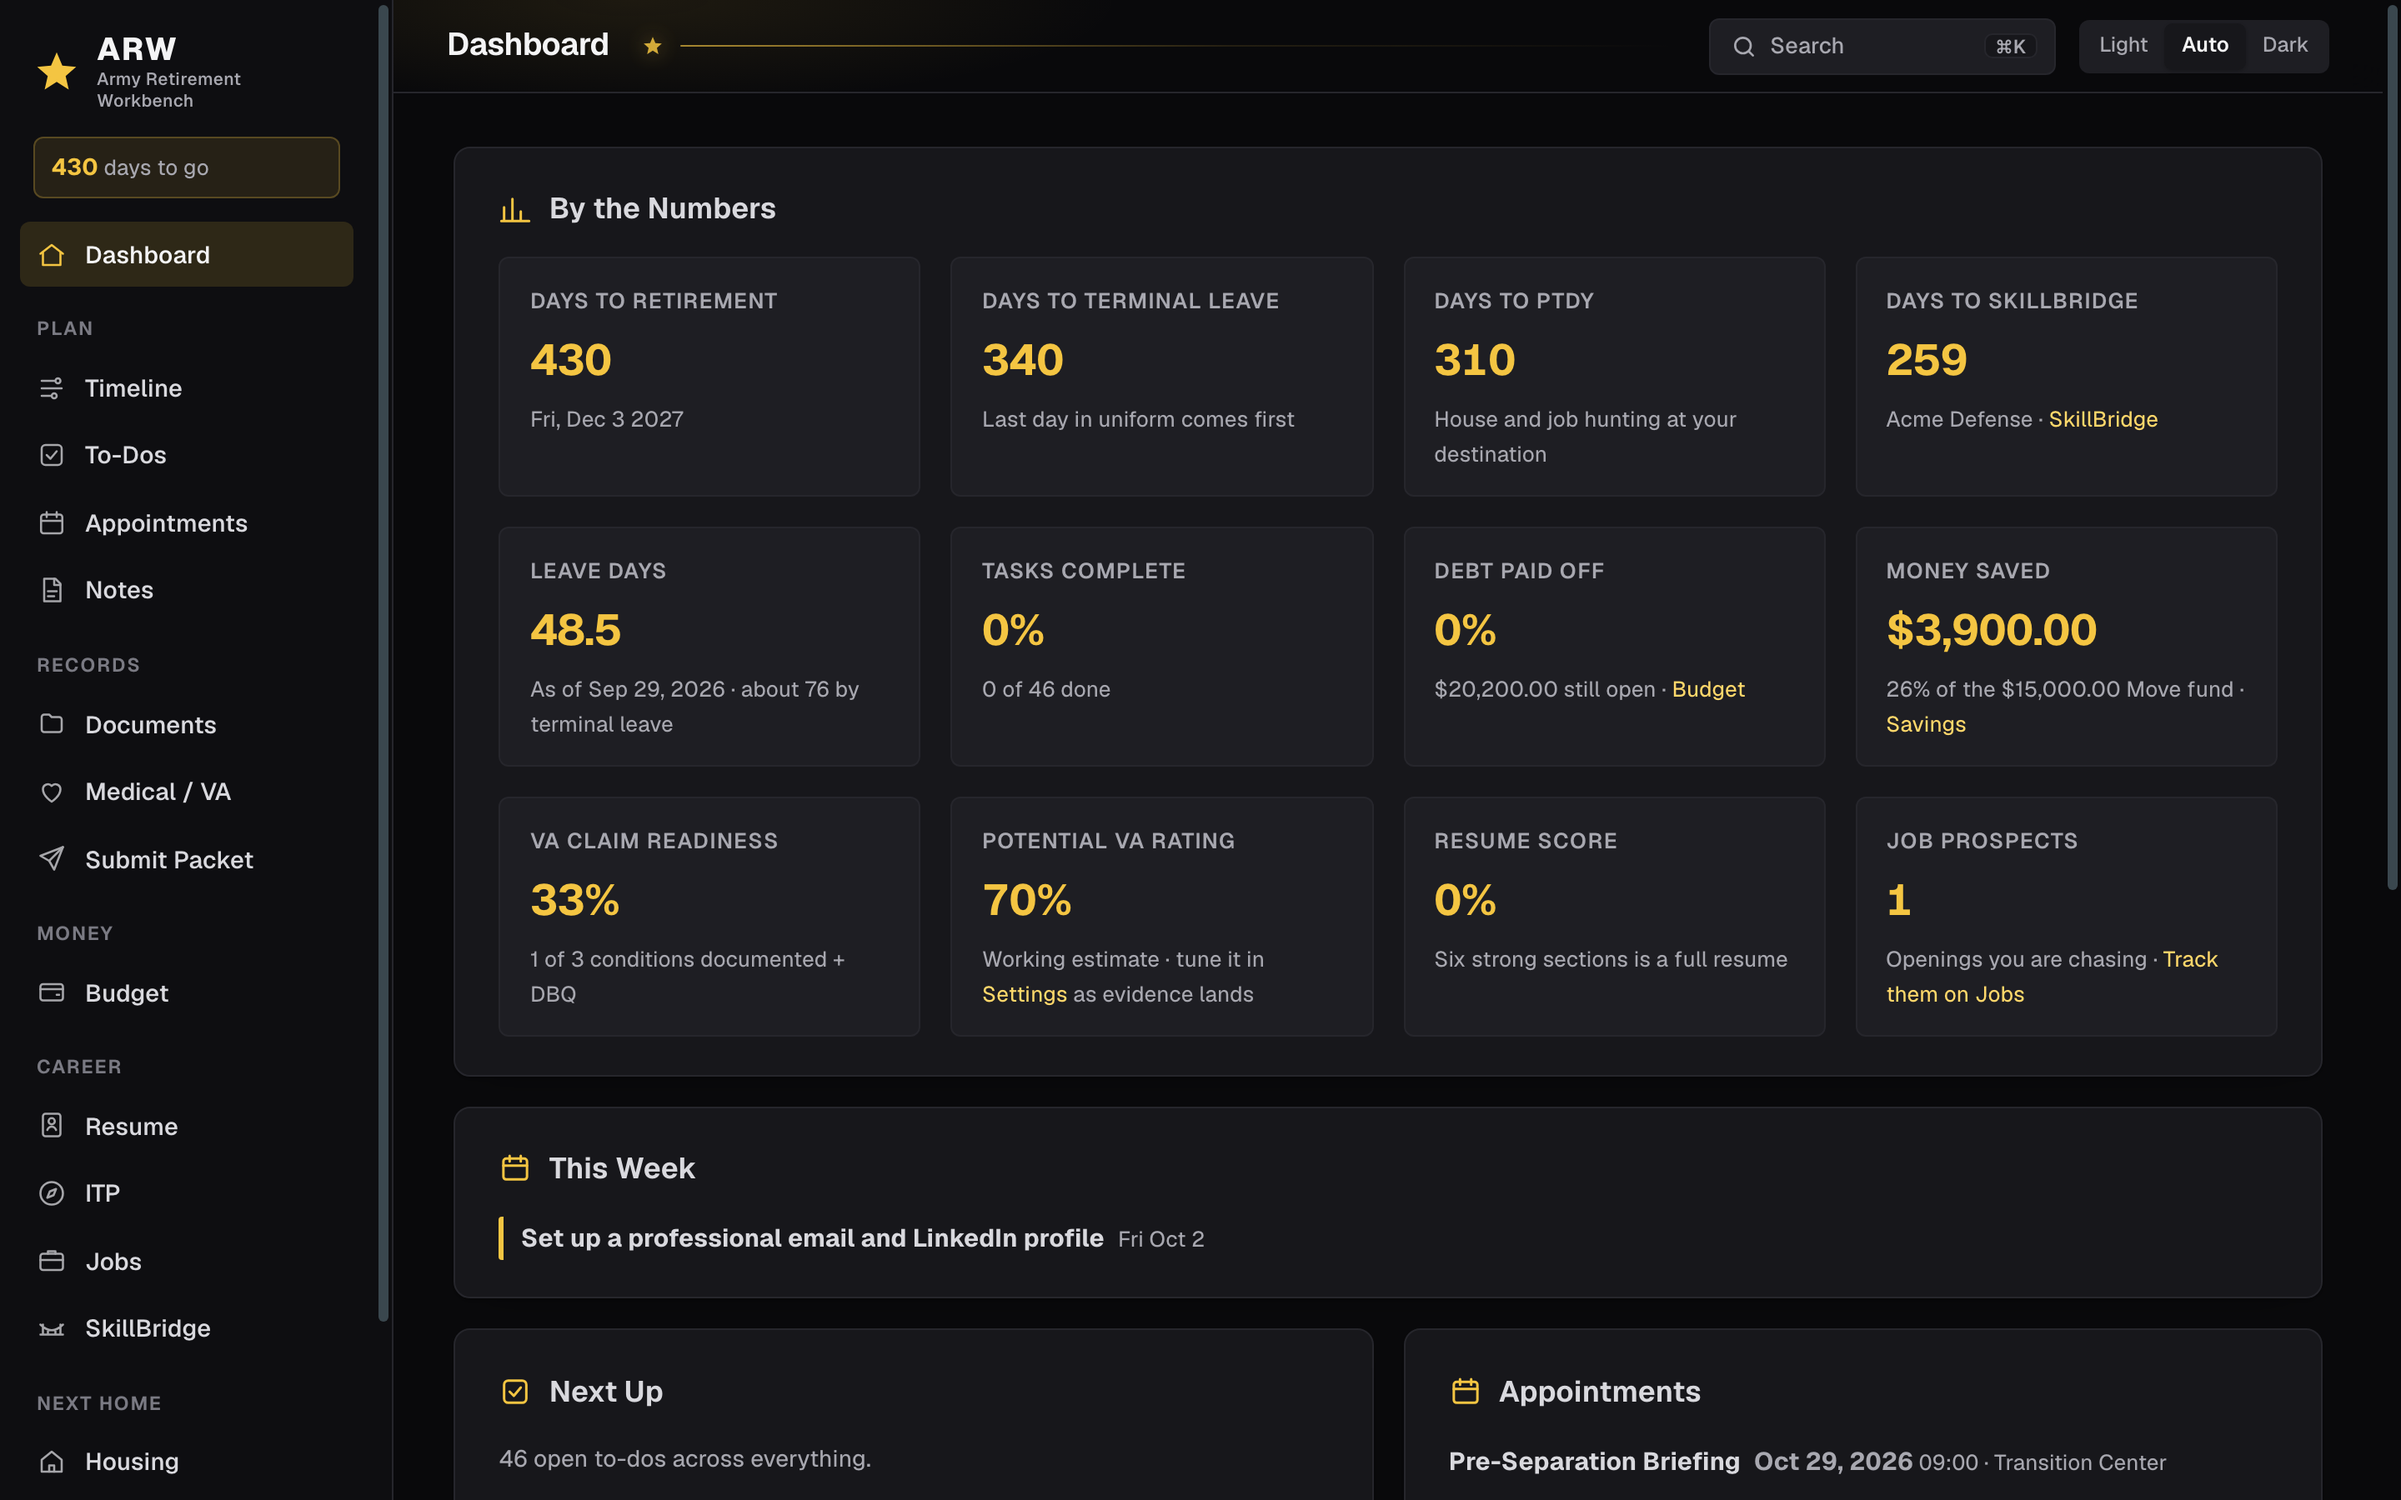
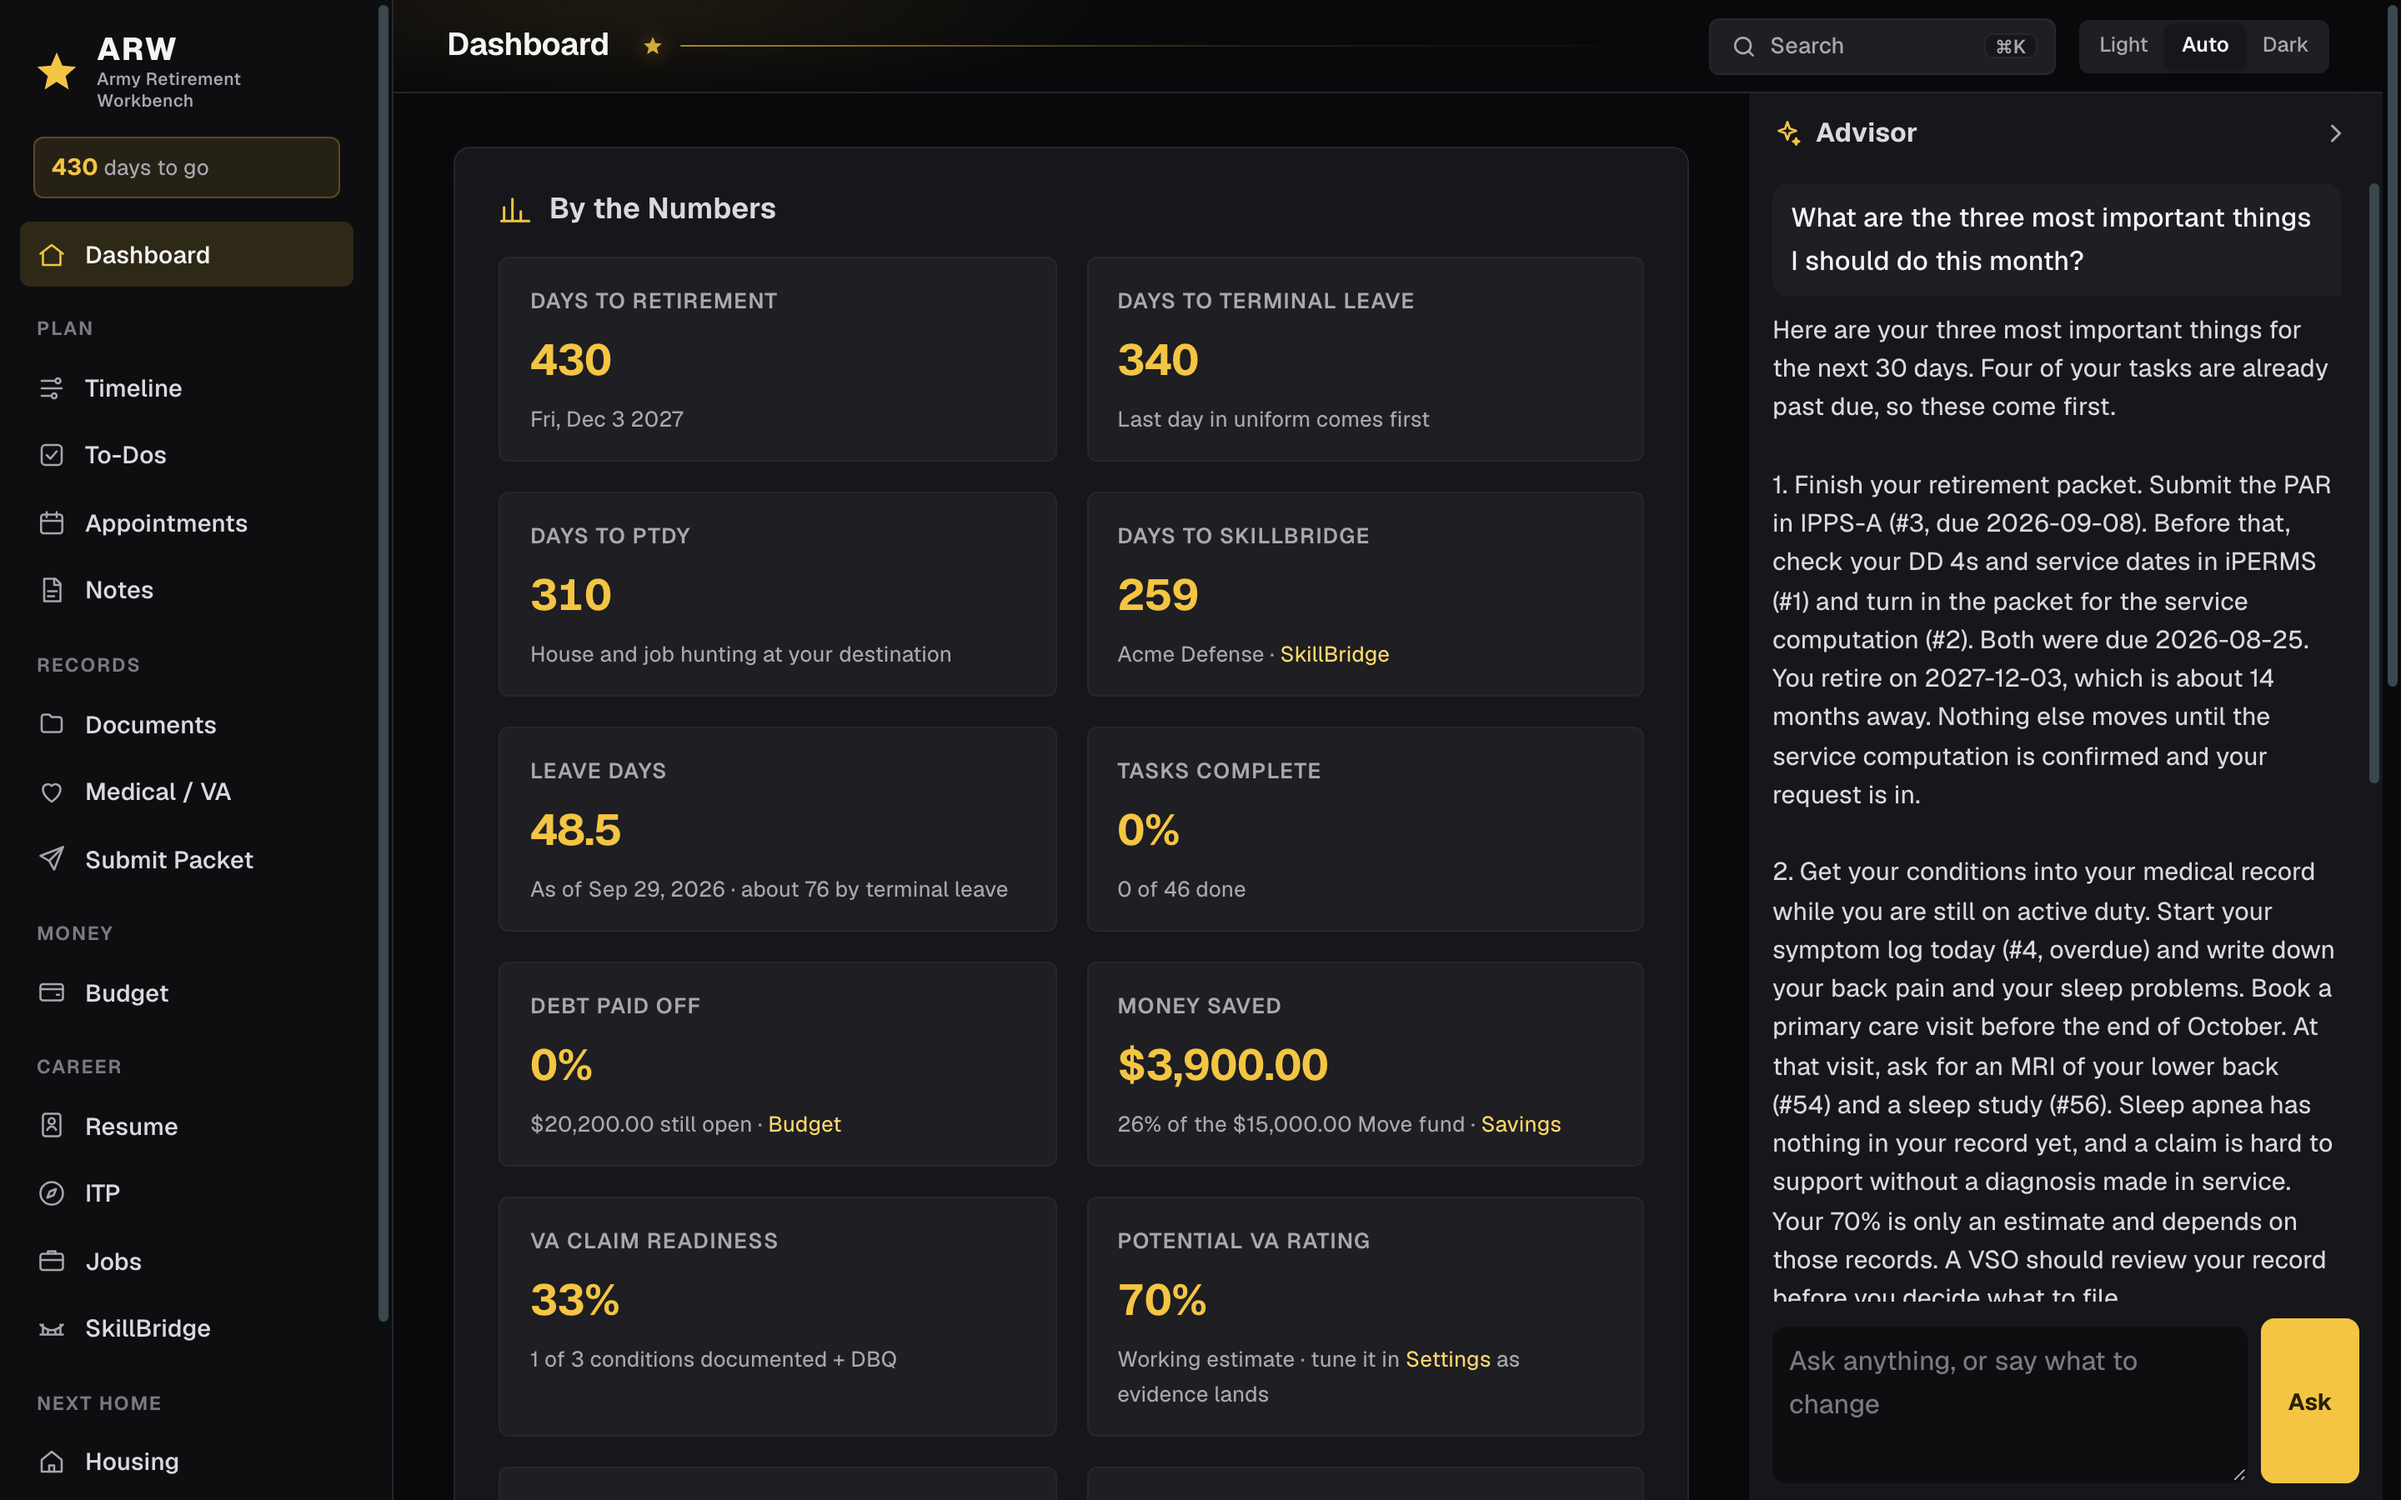
README: show the dashboard with the Advisor, the timeline, and housing
Three screenshots instead of four: the dashboard with a real Advisor answer
about the example soldier, the timeline, and housing. The housing shot
uses fictional listings with drawn houses, because real listing photos
belong to realtor.com and its agents and should not ship in the repo.

diff --git a/README.md b/README.md
@@ -10,7 +10,7 @@ turn on a feature that needs the internet. Free and open source.
 separating and you are tired of tracking it all in notebooks, spreadsheets,
 and a dozen websites.
 
-![The dashboard](docs/dashboard.png)
+![The dashboard, with the Advisor answering from the numbers on screen](docs/dashboard.png)
 
 ## Get started
 
@@ -68,14 +68,14 @@ later.
 | Watch homes for sale where you are moving | **Housing** |
 
 <table><tr>
-<td><img src="docs/budget.png" alt="Budget: retired pay estimate and savings"></td>
-<td><img src="docs/skillbridge.png" alt="SkillBridge: program, leads, and packet"></td>
+<td><img src="docs/timeline.png" alt="The timeline: every milestone from packet to retirement day"></td>
+<td><img src="docs/housing.png" alt="Housing: homes for sale near your destination ZIP code"></td>
 </tr><tr>
-<td align="center">Budget: retired pay, savings, and debt payoff</td>
-<td align="center">SkillBridge: programs, leads, and the approval packet</td>
+<td align="center">Timeline: every milestone, counted back from your retirement date</td>
+<td align="center">Housing: homes for sale where you are moving, updated every 30 minutes</td>
 </tr></table>
 
-![The resume builder](docs/resume.png)
+Screenshots use the built-in example data: a fictional soldier and fictional listings.
 
 Press **⌘K** on a Mac or **Ctrl+K** on Windows from any page to search
 everything: tasks, notes, documents, contacts, and pages.
